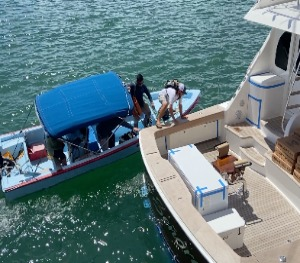
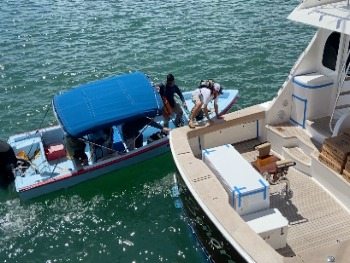
ZY-26 1. Correct layout for medium/small screens 2. Recompress images for Services page

diff --git a/src/components/Services/Services.tsx b/src/components/Services/Services.tsx
@@ -13,40 +13,48 @@ const Services = () => {
       <SectionTitle title="Services" />
       <Box
         sx={{
-          width: { xs: '100%', md: '80%' },
+          width: { xs: '100%', sm: '440px', md: 'auto', lg: 'auto' },
           margin: 'auto',
-          padding: '0 16px',
+          padding: '0 0',
           fontSize: '1.2em'
         }}
       >
-        <span style={emphasizedTextStyle}>Allied Yacht Transport</span>
-        &nbsp;offers numerous services which yacht owners have access to. Some services are
-        necessary for every transport and these are included in every shipping contract; while
-        others are optional based on customer needs.
-      </Box>
+        <div style={{ marginLeft: '10px' }}>
+          <span style={emphasizedTextStyle}>Allied Yacht Transport</span>
+          &nbsp;offers numerous services which yacht owners have access to. Some services are
+          necessary for every transport and these are included in every shipping contract; while
+          others are optional based on customer needs.
+        </div>
 
-      <div style={{ marginTop: '40px' }} />
-      <SectionTitle title="Included Services" />
-      {INCLUDED_SERVICES.map((service, index) => (
-        <ServiceCard {...service} key={index} />
-      ))}
+        <div style={{ marginTop: '40px' }} />
+        <SectionTitle title="Included Services" />
+        {INCLUDED_SERVICES.map((service, index) => (
+          <ServiceCard {...service} key={index} />
+        ))}
 
-      <div style={{ marginTop: '40px' }} />
-      <SectionTitle title="Optional Services" />
-      {OPTIONAL_SERVICES.map((service, index) => (
-        <ServiceCard {...service} key={index} />
-      ))}
-
-      <div style={{ marginTop: '40px', marginBottom: '40px' }}>
-        <Button
-          href={PATHS.quoteRequest}
-          variant={'contained'}
-          sx={{ backgroundColor: 'secondary.dark' }}
-          size={'large'}
+        <div style={{ marginTop: '40px' }} />
+        <SectionTitle title="Optional Services" />
+        {OPTIONAL_SERVICES.map((service, index) => (
+          <ServiceCard {...service} key={index} />
+        ))}
+        <div
+          style={{
+            display: 'flex',
+            justifyContent: 'center',
+            marginTop: '40px',
+            marginBottom: '40px'
+          }}
         >
-          Get Quote
-        </Button>
-      </div>
+          <Button
+            href={PATHS.quoteRequest}
+            variant={'contained'}
+            sx={{ backgroundColor: 'secondary.dark' }}
+            size={'large'}
+          >
+            Get Quote
+          </Button>
+        </div>
+      </Box>
     </Box>
   );
 };

diff --git a/src/components/Services/ServiceCard.tsx b/src/components/Services/ServiceCard.tsx
@@ -18,7 +18,7 @@ export interface ServiceCardProps {
 
 const ServiceCard = ({ title, description, image, index }: ServiceCardProps) => {
   return (
-    <Box sx={routeWihImageBoxSx} data-cy="schedule-route-card">
+    <Box sx={routeWihImageBoxSx} data-cy="service-card">
       <Box sx={cardImgSx}>
         <Image
           src={image}
